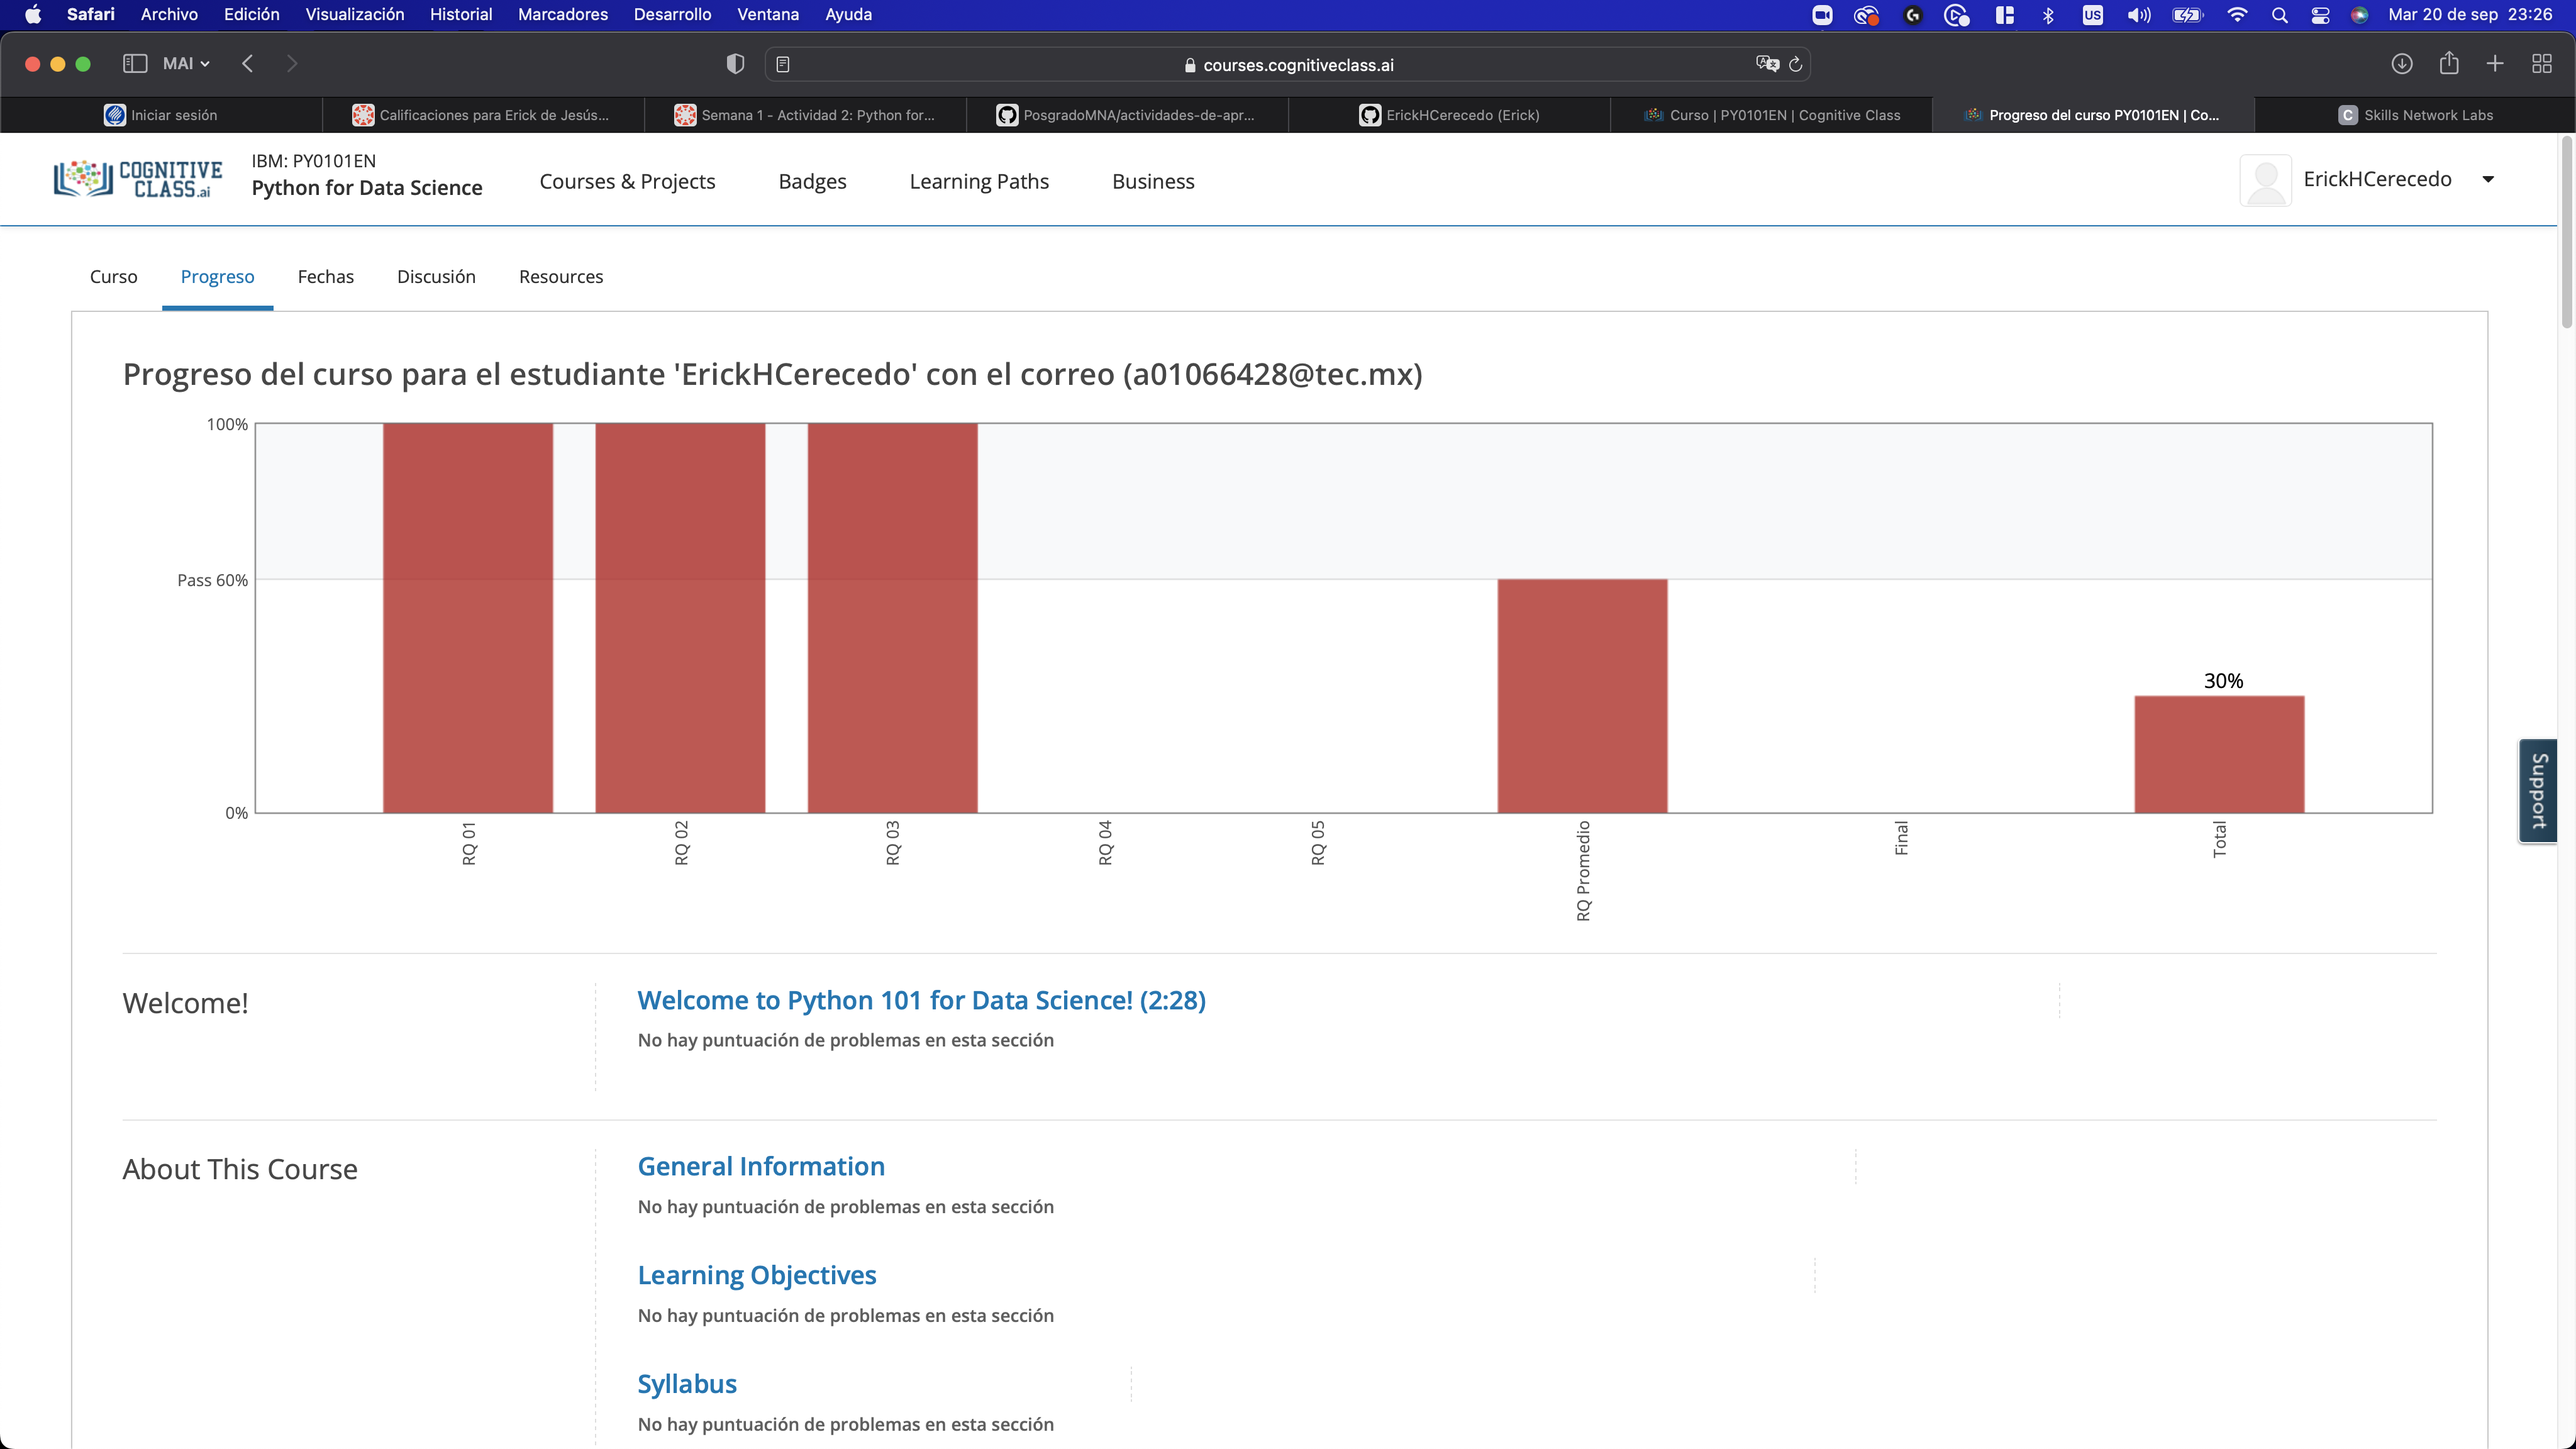
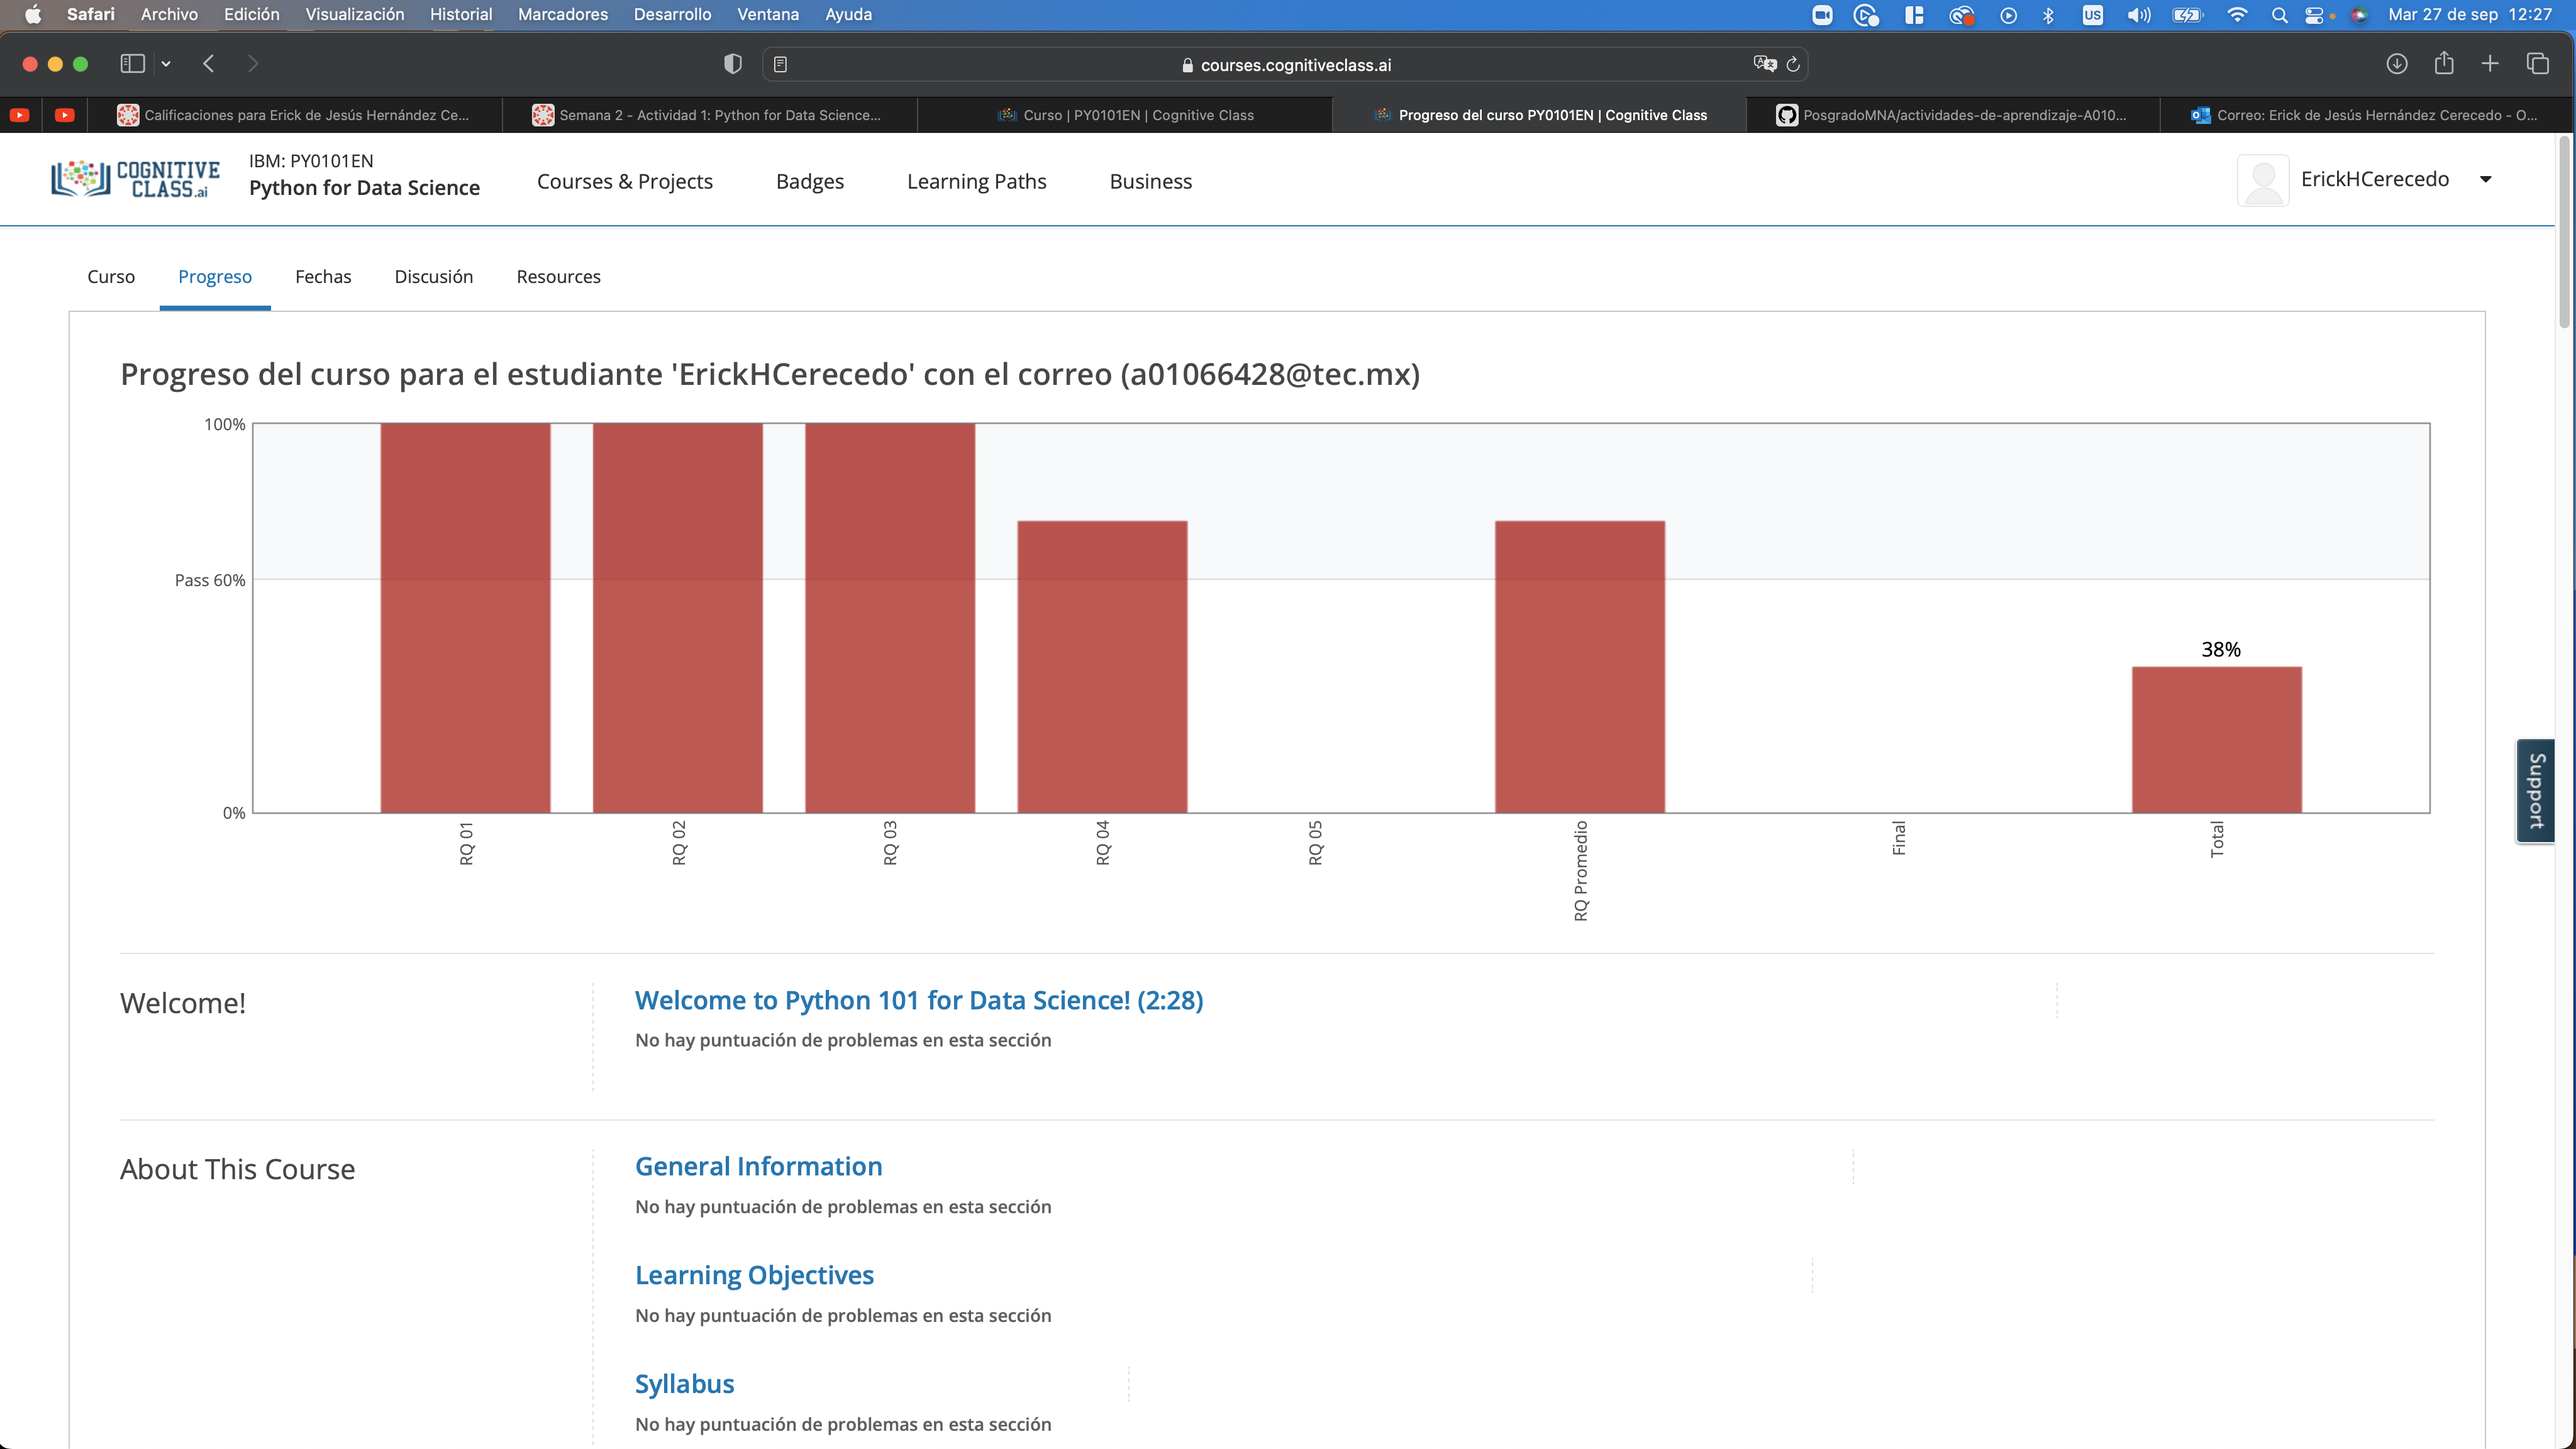
Evidencia

diff --git a/README.md b/README.md
@@ -4,4 +4,4 @@ Erick de Jesus Hernandez Cerecedo
 A01066428
 
 progreso de curso
-![Progreso modulos](evidencia.png "Progreso modulos 1, 2 y 3")
+![Progreso modulos](evidencia.png "Progreso modulos 1, 2, 3 y 4")
